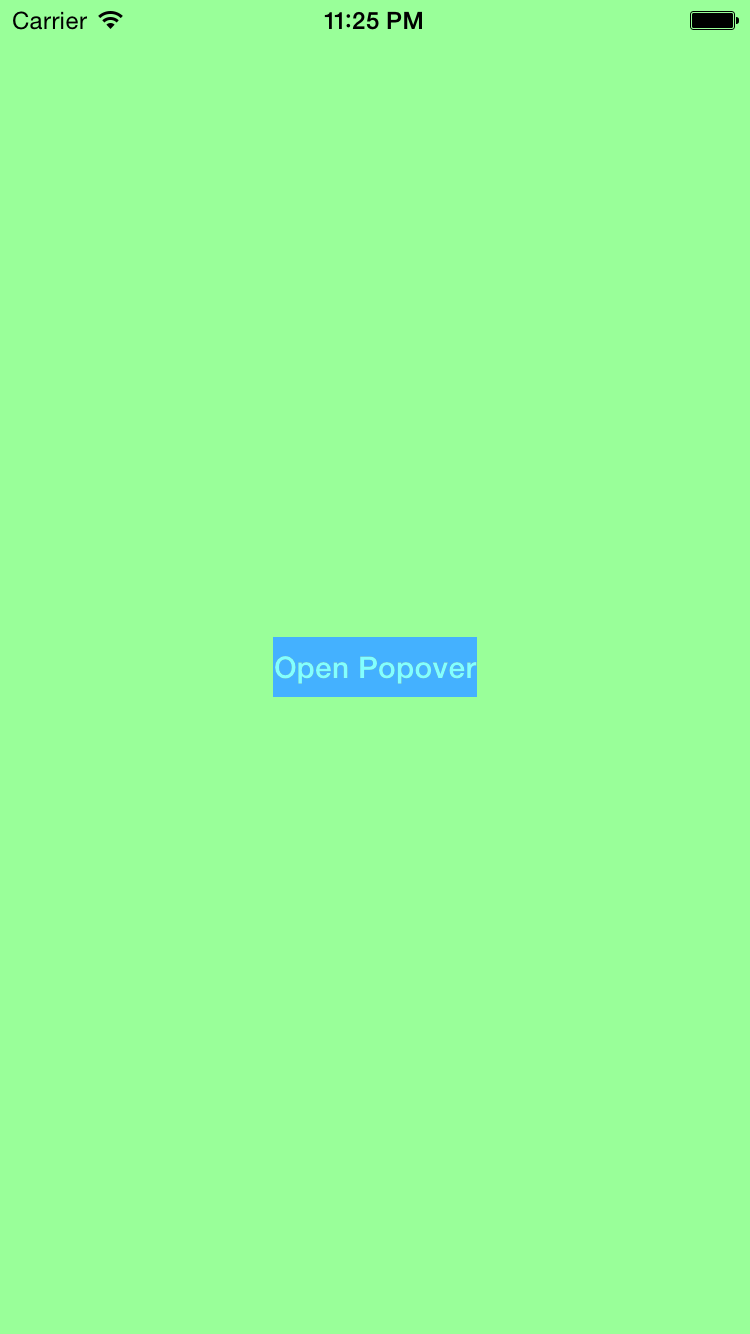
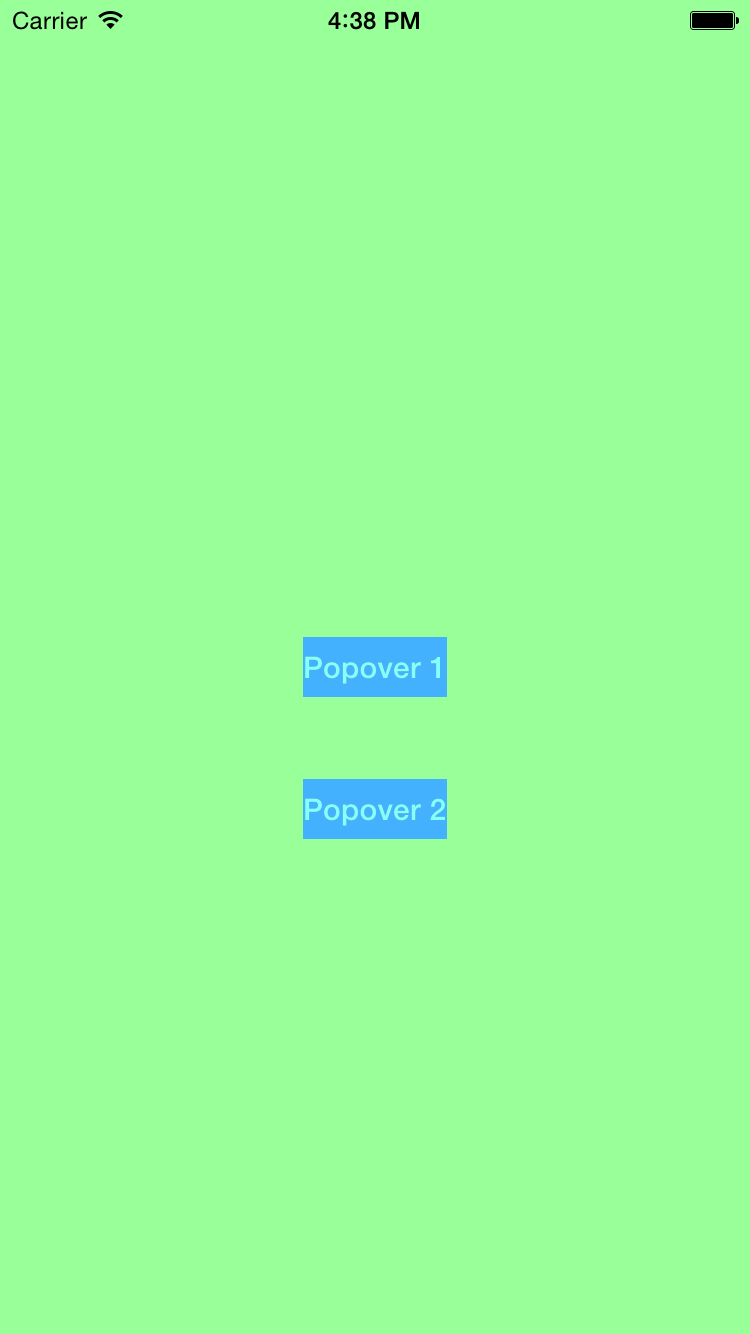
Add new screenshot and update README file

Changed region(s): [[0.3987, 0.584, 0.6133, 0.6454], [0.3373, 0.461, 0.644, 0.5225], [0.4293, 0.0, 0.5827, 0.0307]]

diff --git a/README.md b/README.md
@@ -6,4 +6,7 @@ This is a demo project for custom popup with semi transparent background and cus
 ![Main Screen](mainScreen.png "Main Screen")
 
 # 2. Popover screen
-![PopoverScreen](popover.png "Popover screen")
+![PopoverScreen](popoverOne.png "First Popover screen")
+
+# 2. Popover screen
+![PopoverScreen](popoverSecond.png "Second Popover screen")
